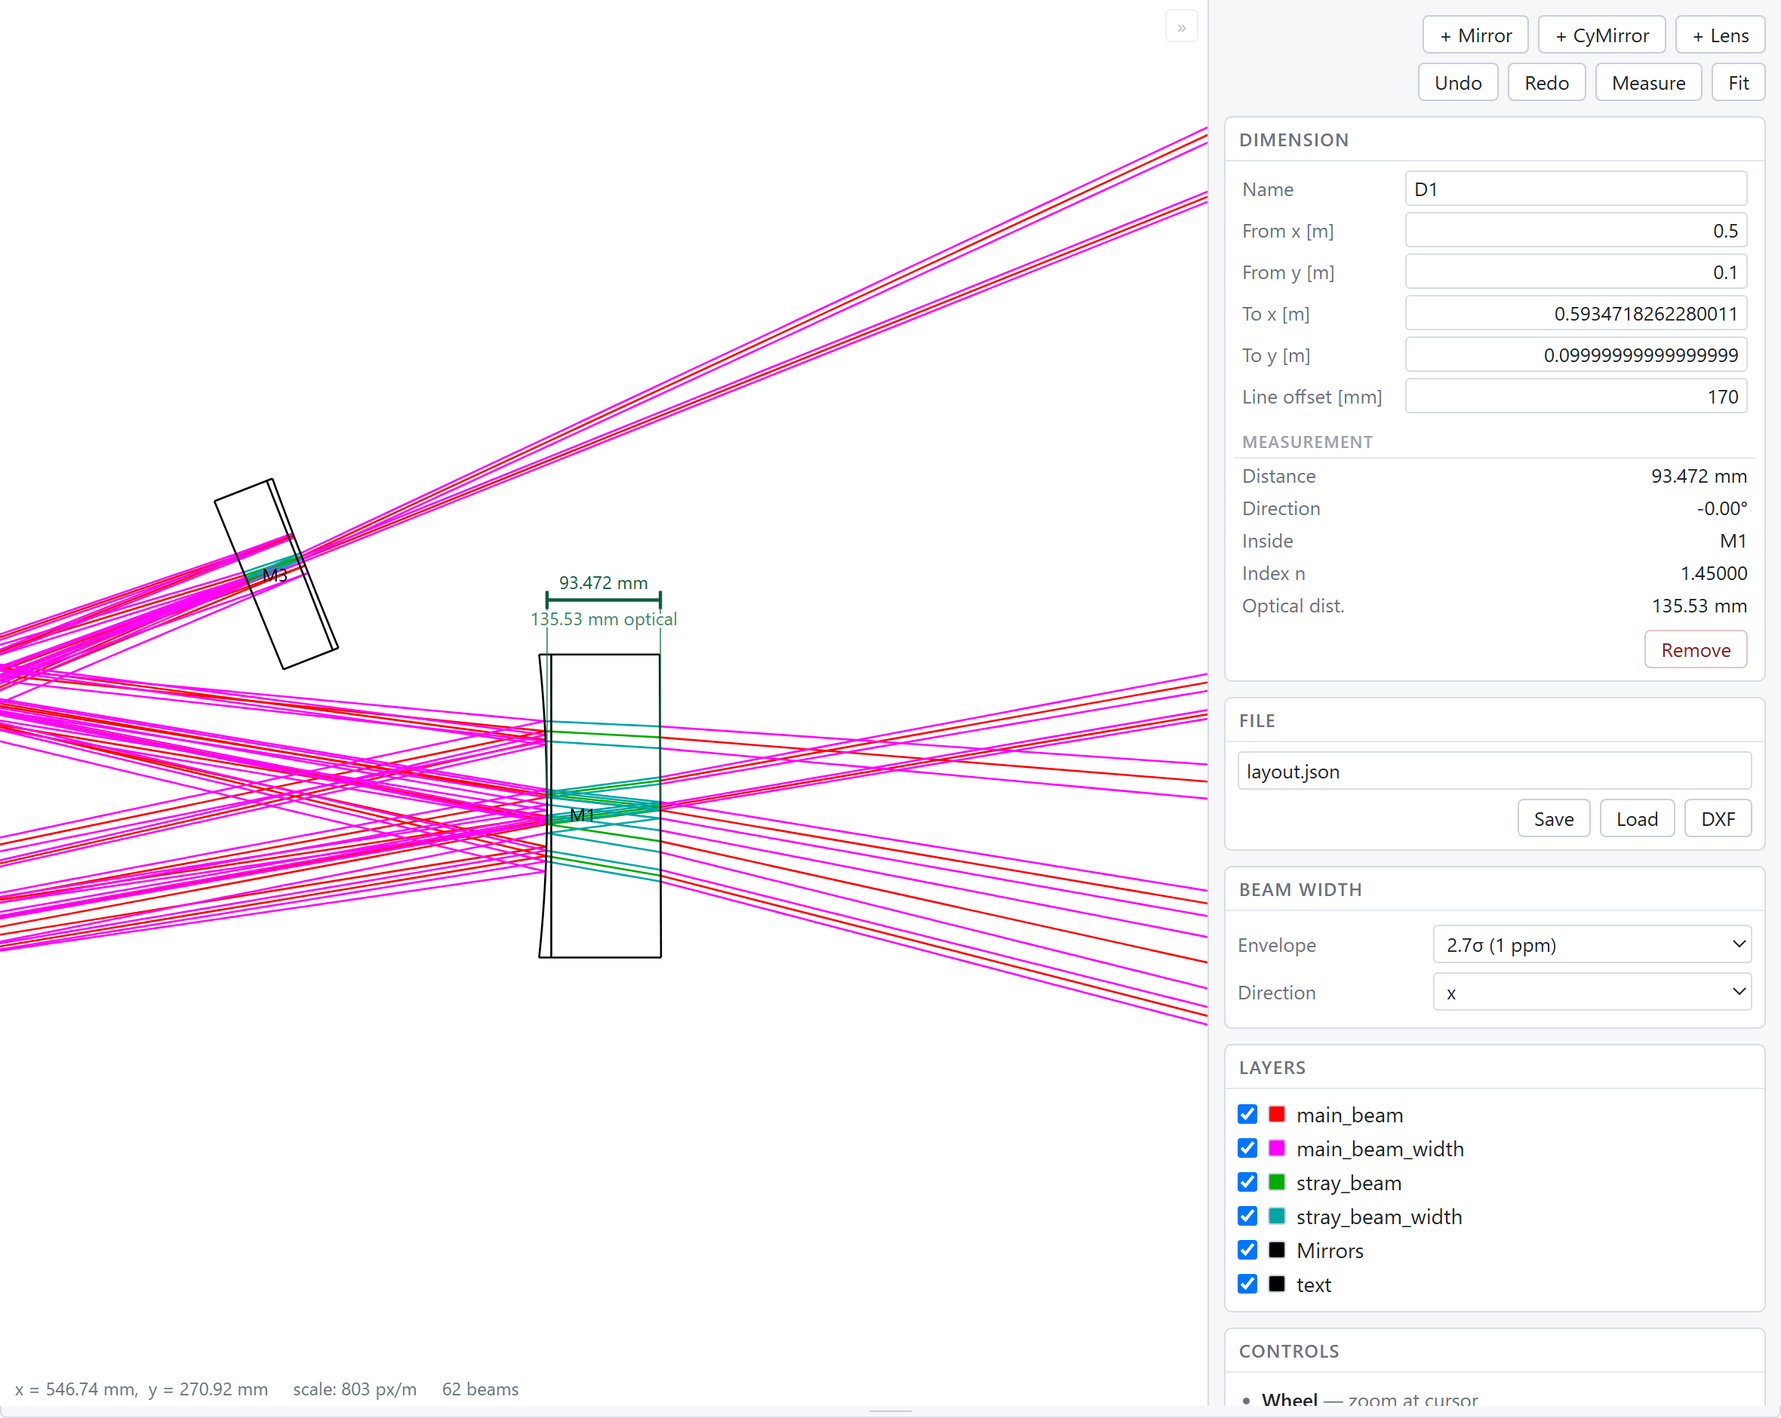
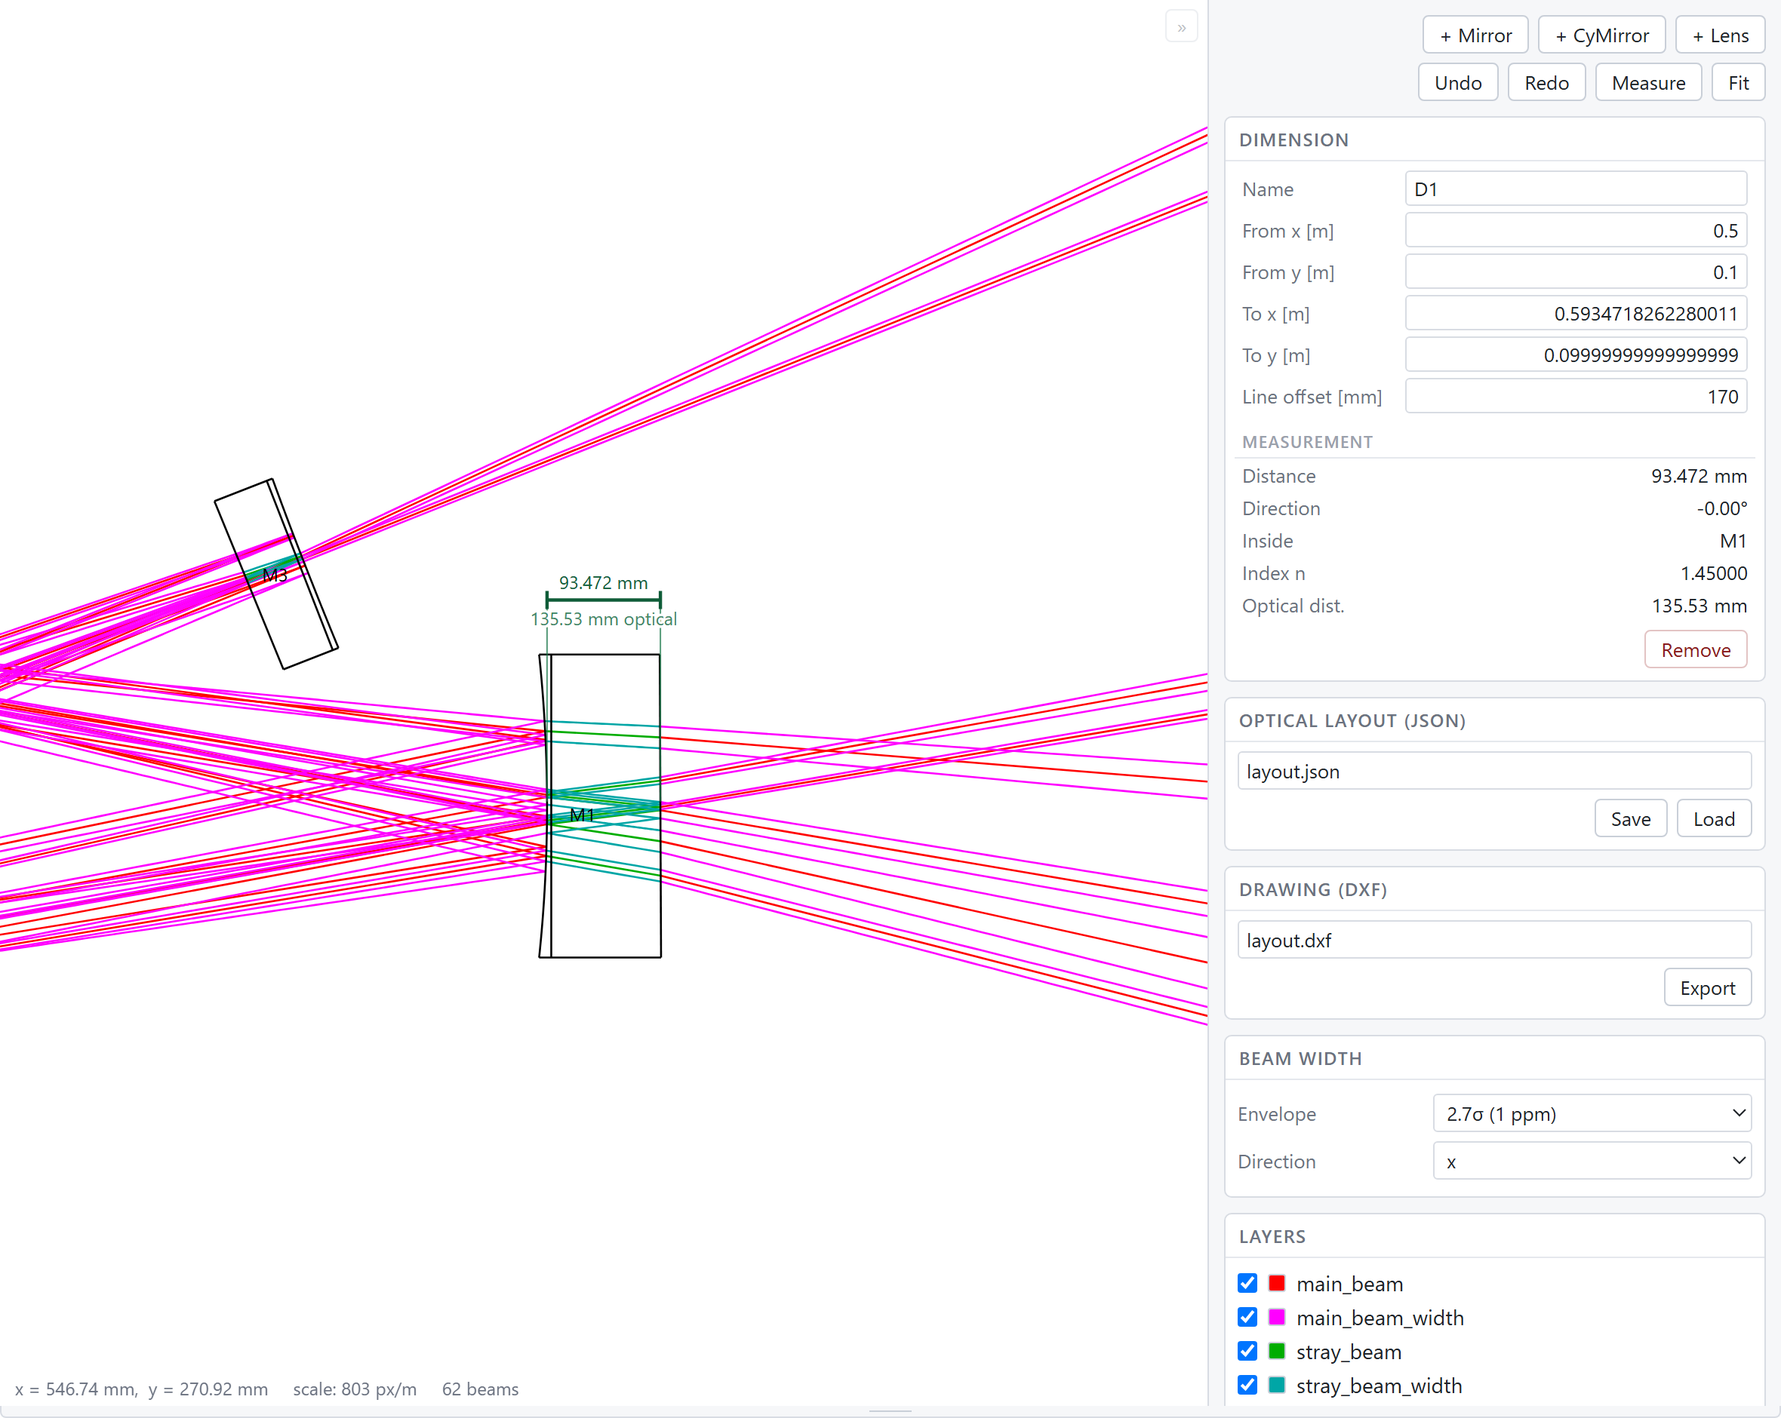
Keep the drawing's file apart from the layout's
Save, Load and DXF shared a panel and a file name, which read as three
ways of doing one thing. They are not. The layout is the model: save it
and load it back and you have the same system. The DXF is a picture of
it, going out to something that will never send it back - pressing Load
on one could only be a mistake, and a shared panel is how that mistake
gets made.

So: two panels, Optical layout (JSON) and Drawing (DXF), with a file
name each. The drawing's starts from the layout's with the extension
swapped, so the two match without being typed twice, and is the user's
own from then on; widget(dxf_path=...) sets it from Python.

An extension typed into that field is now left alone rather than
replaced - the panel it sits in has already said what kind of file it
is - and one left out is filled in.

Changed region(s): [[0.6805, 0.617, 0.9898, 1.0], [0.8661, 0.5553, 0.9898, 0.5862], [0.7114, 0.4936, 0.8042, 0.5245]]

diff --git a/gtrace/draw/viewer/viewer.js b/gtrace/draw/viewer/viewer.js
@@ -423,41 +423,63 @@ Viewer.prototype._build = function () {
     this._buildDimPanel();
     this._showPanel('beam');
 
-    // File panel. Editing in the browser is only worth anything if the
-    // result can be taken out again, and the file has to be written by
-    // Python: the page has no business touching the disk.
+    // Two file panels, kept apart because they deal in two different
+    // things. The layout is the model - saving it and loading it back
+    // is the same system either way. The DXF is a drawing of it, going
+    // out to something that will never send it back. Sharing a panel,
+    // or worse a file name, invites Load to be pressed on a drawing.
+    //
+    // Both are written by Python: the page has no business touching the
+    // disk.
     if (this.onEdit) {
+        var layoutPath = this.opts.layoutPath || 'layout.json';
+
         var fpanel = htmlEl('div', 'gt-panel');
-        fpanel.appendChild(htmlEl('div', 'gt-panel-title', 'File'));
+        fpanel.appendChild(htmlEl('div', 'gt-panel-title',
+                                  'Optical layout (JSON)'));
         var fbody = htmlEl('div', 'gt-file');
         this.pathInput = htmlEl('input', 'gt-input gt-input-text');
         this.pathInput.type = 'text';
         this.pathInput.spellcheck = false;
-        this.pathInput.value = this.opts.layoutPath || 'layout.json';
+        this.pathInput.value = layoutPath;
         this.pathInput.title = 'Relative to where the kernel is running';
         fbody.appendChild(this.pathInput);
         var frow = htmlEl('div', 'gt-filebuttons');
         var saveBtn = htmlEl('button', 'gt-btn', 'Save');
-        saveBtn.title = 'Write the layout to this file';
+        saveBtn.title = 'Write the optical layout to this file';
         saveBtn.addEventListener('click', function () { self.saveLayout(); });
         var loadBtn = htmlEl('button', 'gt-btn', 'Load');
-        loadBtn.title = 'Replace the layout with the one in this file';
+        loadBtn.title = 'Replace the optical layout with the one in this file';
         loadBtn.addEventListener('click', function () { self.loadLayout(); });
-        // A drawing for the rest of an engineering workflow. It goes
-        // beside Save and Load because it answers the same question -
-        // how do I get this out of here - and it takes the same field,
-        // with the extension swapped: a layout and its drawing belong
-        // together and are usually wanted under one name.
-        var dxfBtn = htmlEl('button', 'gt-btn', 'DXF');
-        dxfBtn.title = 'Write the drawing to a DXF file, named after '
-            + 'this one';
-        dxfBtn.addEventListener('click', function () { self.exportDXF(); });
         frow.appendChild(saveBtn);
         frow.appendChild(loadBtn);
-        frow.appendChild(dxfBtn);
         fbody.appendChild(frow);
         fpanel.appendChild(fbody);
         side.appendChild(fpanel);
+
+        // The drawing, for whatever comes after gtrace in an
+        // engineering workflow. Its name starts from the layout's, so
+        // the two match without being typed twice, and is then the
+        // user's own: they are not the same file and need not share a
+        // stem.
+        var xpanel = htmlEl('div', 'gt-panel');
+        xpanel.appendChild(htmlEl('div', 'gt-panel-title', 'Drawing (DXF)'));
+        var xbody = htmlEl('div', 'gt-file');
+        this.dxfInput = htmlEl('input', 'gt-input gt-input-text');
+        this.dxfInput.type = 'text';
+        this.dxfInput.spellcheck = false;
+        this.dxfInput.value = this.opts.dxfPath
+            || withExtension(layoutPath, '.dxf');
+        this.dxfInput.title = 'Relative to where the kernel is running';
+        xbody.appendChild(this.dxfInput);
+        var xrow = htmlEl('div', 'gt-filebuttons');
+        var dxfBtn = htmlEl('button', 'gt-btn', 'Export');
+        dxfBtn.title = 'Write the drawing to this DXF file';
+        dxfBtn.addEventListener('click', function () { self.exportDXF(); });
+        xrow.appendChild(dxfBtn);
+        xbody.appendChild(xrow);
+        xpanel.appendChild(xbody);
+        side.appendChild(xpanel);
     }
 
     // Display panel. These change how Python draws the scene, so they
@@ -1026,33 +1048,56 @@ Viewer.prototype.saveLayout = function (path) {
 };
 
 /*
- * Write the drawing to a DXF file, for whatever comes after gtrace in
- * an engineering workflow.
+ * Write the drawing to the DXF file named in its own panel, for
+ * whatever comes after gtrace in an engineering workflow.
  *
- * The name is the one in the panel with its extension swapped, so that
- * a layout and its drawing come out under one name without the user
- * having to type it twice. Python does the drawing and the writing; the
- * page only says where.
+ * Python does the drawing and the writing; the page only says where.
  */
 Viewer.prototype.exportDXF = function (path) {
     if (!this.onEdit) { return null; }
-    path = (path || (this.pathInput && this.pathInput.value) || '').trim();
+    path = (path || (this.dxfInput && this.dxfInput.value) || '').trim();
     if (!path) { return null; }
-    var msg = {op: 'export', format: 'dxf', path: withExtension(path, '.dxf')};
+    // The field is the user's, so an extension they typed is left
+    // alone; one they did not type is filled in, since the panel this
+    // field sits in has already said what kind of file it is.
+    var msg = {op: 'export', format: 'dxf',
+               path: withDefaultExtension(path, '.dxf')};
     this.onEdit(msg);
     return msg;
 };
 
 /*
- * A path with its extension replaced. One that ends in a separator, or
- * whose last segment has no extension, gets the new one appended.
+ * Split a path into the part before the last separator and the part
+ * after it, with the index of the extension's dot in that last part, or
+ * -1 when it has none. A leading dot is a hidden file, not an
+ * extension.
  */
-function withExtension(path, ext) {
+function splitExtension(path) {
     var cut = Math.max(path.lastIndexOf('/'), path.lastIndexOf('\\'));
     var name = path.slice(cut + 1);
     var dot = name.lastIndexOf('.');
-    if (dot <= 0) { return path + ext; }
-    return path.slice(0, cut + 1) + name.slice(0, dot) + ext;
+    return {head: path.slice(0, cut + 1), name: name,
+            dot: dot > 0 ? dot : -1};
+}
+
+/*
+ * A path with its extension replaced, or given one if it had none.
+ * Used to suggest a drawing's name from the layout's.
+ */
+function withExtension(path, ext) {
+    var p = splitExtension(path);
+    if (p.dot < 0) { return path + ext; }
+    return p.head + p.name.slice(0, p.dot) + ext;
+}
+
+/*
+ * A path with an extension added only if it has none. Used where the
+ * user typed the name themselves: replacing what they wrote would be
+ * presumptuous, and leaving a name with no extension at all would not
+ * be a DXF file to anything that opens one.
+ */
+function withDefaultExtension(path, ext) {
+    return splitExtension(path).dot < 0 ? path + ext : path;
 }
 
 /*

diff --git a/gtrace/draw/viewer/widget.js b/gtrace/draw/viewer/widget.js
@@ -38,6 +38,7 @@ function render({ model, el }) {
     // Python see what it was dragged to.
     const viewer = globalThis.GTraceViewer.mount(host, model.get('scene'), {
         layoutPath: model.get('layout_path'),
+        dxfPath: model.get('dxf_path'),
         onEdit: onEdit,
         resizable: true,
         onResize: (h) => {

diff --git a/tests/gui/verify_props_browser.py b/tests/gui/verify_props_browser.py
@@ -267,7 +267,10 @@ var LENS = __LENS__;
         } : null;
         out.saveButton = !!button('Save');
         out.loadButton = !!button('Load');
-        out.dxfButton = !!button('DXF');
+        out.dxfButton = !!button('Export');
+        out.panelTitles = Array.prototype.map.call(
+            el.querySelectorAll('.gt-panel-title'),
+            function (t) { return t.textContent; });
         out.pathShown = v.pathInput ? v.pathInput.value : null;
 
         // --- click M1 ---
@@ -817,28 +820,39 @@ var LENS = __LENS__;
             out.load.fitPendingAfter = v.fitOnNextScene;
             out.load.refitted = v.scale !== scaleBefore * 4;
 
-            // DXF takes the same field with its extension swapped: a
-            // layout and its drawing are usually wanted under one name,
-            // and typing it twice is how they drift apart.
+            // The drawing has a panel and a file name of its own: it
+            // is not the layout, and Load must never be pressed on it.
+            out.dxfStart = v.dxfInput.value;
             var nDxf = sent.length;
-            button('DXF').click();
+            v.dxfInput.value = 'drawing.dxf';
+            button('Export').click();
             out.dxf = {msg: sent[sent.length - 1], sent: sent.length - nDxf};
-            out.dxfNames = ['a/b/layout.json', 'layout', 'a.b/c',
-                            'x.dxf', 'dir/'].map(function (p) {
-                v.pathInput.value = p;
-                button('DXF').click();
-                return sent[sent.length - 1].path;
-            });
+            // Changing the layout's name does not touch the drawing's.
+            v.pathInput.value = 'other.json';
+            button('Export').click();
+            out.dxfIndependent = sent[sent.length - 1].path;
             v.pathInput.value = 'chosen.json';
 
-            // A blank file name asks for nothing.
+            // An extension the user typed is left alone; one they did
+            // not type is filled in.
+            out.dxfNames = ['plan', 'plan.dxf', 'plan.DXF', 'a.b/c',
+                            'dir/'].map(function (p) {
+                v.dxfInput.value = p;
+                button('Export').click();
+                return sent[sent.length - 1].path;
+            });
+            v.dxfInput.value = 'drawing.dxf';
+
+            // A blank file name asks for nothing, in either panel.
             v.pathInput.value = '   ';
+            v.dxfInput.value = '   ';
             var nBlank = sent.length;
             button('Save').click();
             button('Load').click();
-            button('DXF').click();
+            button('Export').click();
             out.blankPath = sent.length - nBlank;
             v.pathInput.value = 'chosen.json';
+            v.dxfInput.value = 'drawing.dxf';
         }
 
         // --- the beam width controls, last so as not to shift the
@@ -1107,21 +1121,32 @@ check('the selection is dropped before the answer arrives',
 check('and the next scene is refitted, not left where the old one was',
       ld['fitPending'] and not ld['fitPendingAfter'] and ld['refitted'],
       str(ld))
+check('a blank file name sends nothing', res['blankPath'] == 0,
+      str(res['blankPath']))
+
+print('--- the drawing panel ---')
+# The layout is the model, saved and loaded as the same system. The DXF
+# is a drawing of it, going out to something that will never send it
+# back. They get separate panels and separate names so that Load is
+# never pressed on a drawing.
+check('the two panels are named for what they hold',
+      'Optical layout (JSON)' in res['panelTitles']
+      and 'Drawing (DXF)' in res['panelTitles'], str(res['panelTitles']))
+check('the drawing has a file name of its own',
+      res['dxfStart'] == 'layout.dxf', str(res['dxfStart']))
 dx = res['dxf']
-check('DXF sends one message', dx['sent'] == 1, str(dx['sent']))
+check('Export sends one message', dx['sent'] == 1, str(dx['sent']))
 check("it is an 'export' of a dxf",
       dx['msg']['op'] == 'export' and dx['msg']['format'] == 'dxf',
       str(dx['msg']))
-# The same field with the extension swapped, so a layout and its drawing
-# come out under one name without it being typed twice.
-check('naming the file after the layout file',
-      dx['msg']['path'] == 'chosen.dxf', str(dx['msg']['path']))
-check('the extension is swapped, not appended',
-      res['dxfNames'] == ['a/b/layout.dxf', 'layout.dxf', 'a.b/c.dxf',
-                          'x.dxf', 'dir/.dxf'],
+check('naming the file typed in its own panel',
+      dx['msg']['path'] == 'drawing.dxf', str(dx['msg']['path']))
+check('which the layout file name does not touch',
+      res['dxfIndependent'] == 'drawing.dxf', str(res['dxfIndependent']))
+check('an extension the user typed is left alone, one they omitted is added',
+      res['dxfNames'] == ['plan.dxf', 'plan.dxf', 'plan.DXF', 'a.b/c.dxf',
+                          'dir/.dxf'],
       str(res['dxfNames']))
-check('a blank file name sends nothing', res['blankPath'] == 0,
-      str(res['blankPath']))
 
 print('--- the beam width controls ---')
 d = res['display']

diff --git a/gtrace/layout.py b/gtrace/layout.py
@@ -1896,7 +1896,7 @@ class OpticalLayout(object):
                           scene=self.scene_dict(**kwargs))
 
     def widget(self, height=520, editable=True,
-               path='layout.json', **kwargs):
+               path='layout.json', dxf_path=None, **kwargs):
         '''
         Return a Jupyter widget showing this layout.
 
@@ -1927,6 +1927,11 @@ class OpticalLayout(object):
         path : str, optional
             File the Save and Load buttons start on, relative to where
             the kernel is running. Defaults to 'layout.json'.
+        dxf_path : str or None, optional
+            File the Export button starts on. Defaults to None, which
+            names it after path with a .dxf extension - the two are
+            usually wanted together, and it is still the user's to
+            change in the panel.
         **kwargs
             Passed to draw(), and remembered for the redraws that
             follow an edit.
@@ -1939,7 +1944,8 @@ class OpticalLayout(object):
         return LayoutViewer(scene=self.scene_dict(**kwargs), layout=self,
                             draw_kwargs=kwargs,
                             height=height, editable=editable,
-                            layout_path=path)
+                            layout_path=path,
+                            dxf_path=dxf_path if dxf_path is not None else '')
 
     def show(self, filename=None, browser=True, title=None, backend=None,
              **kwargs):

diff --git a/gtrace/draw/viewer/widget.py b/gtrace/draw/viewer/widget.py
@@ -154,6 +154,9 @@ def _build_class():
         notice = traitlets.Unicode('').tag(sync=True)
         #: File the Save and Load buttons start on.
         layout_path = traitlets.Unicode('layout.json').tag(sync=True)
+        #: File the Export button starts on. Empty means "name it
+        #: after the layout file", which the front end does.
+        dxf_path = traitlets.Unicode('').tag(sync=True)
 
         def __init__(self, scene=None, layout=None, draw_kwargs=None,
                      **kwargs):

diff --git a/docs/source/viewer.rst b/docs/source/viewer.rst
@@ -253,13 +253,15 @@ A rejected edit — an unknown attribute, a value outside the permitted set, a d
 Files
 ------
 
-The side bar has a ``File`` panel with a file name and three buttons. All the reading and writing is done by Python, and the path is relative to where the kernel is running; the page is never given access to your disk.
+The side bar has two file panels. All the reading and writing is done by Python, and the paths are relative to where the kernel is running; the page is never given access to your disk. Neither changes anything on screen, so the viewer says what it did in the status line; otherwise there would be no way to tell whether the button had done anything.
 
-**Save** and **Load** write and read the layout as JSON. Loading updates the layout in place, so the names bound in the cells above keep pointing at the right objects. See :doc:`layout` for what that means and why it matters.
+**Optical layout (JSON)** — **Save** and **Load** write and read the layout itself. Loading updates it in place, so the names bound in the cells above keep pointing at the right objects. See :doc:`layout` for what that means and why it matters.
 
-**DXF** writes the drawing out for the rest of an engineering workflow. It takes the same file name with the extension swapped — a layout and its drawing are usually wanted under one name, and typing it twice is how the two drift apart.
+**Drawing (DXF)** — **Export** writes a drawing of the layout for the rest of an engineering workflow.
 
-None of these changes anything on screen, so the viewer says what it did in the status line; otherwise there would be no way to tell whether the button had done anything.
+They are kept apart, with a file name each, because they deal in two different things. The layout is the model, and saving it and loading it back gives you the same system either way. The DXF is a *picture* of the model, going out to something that will never send it back — pressing Load on one could only be a mistake, and sharing a panel or a file name is how that mistake gets made.
+
+The drawing's name starts from the layout's with the extension swapped, so the two match without being typed twice; from then on it is yours. An extension you type there is left alone, and one you leave out is filled in — the panel has already said what kind of file it is. ``layout.widget(dxf_path=...)`` sets the starting name from Python.
 
 .. _dxf-export:
 

diff --git a/CHANGELOG.md b/CHANGELOG.md
@@ -38,8 +38,11 @@ Slated for 0.4.0. Not yet on PyPI.
   draws the dimensions on a layer of their own, which CAD can switch
   off; `dimensions=False` leaves them out. `draw_dimensions()` does the
   drawing and is callable on its own.
-- A `DXF` button in the viewer's file panel, and an `export` operation
-  in the edit protocol.
+- A **Drawing (DXF)** panel in the viewer, with a file name of its own
+  beside the **Optical layout (JSON)** one, and an `export` operation
+  in the edit protocol. The two are kept apart because the layout is
+  the model and the DXF is a picture of it: pressing Load on a
+  drawing could only be a mistake.
 
 ### Added — viewer
 
